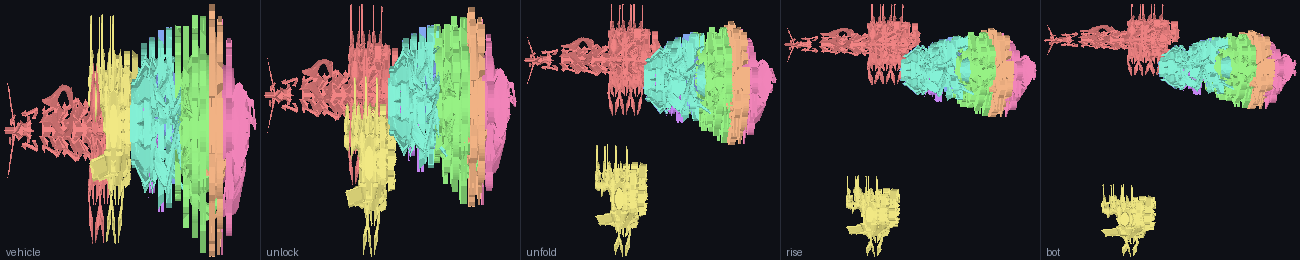
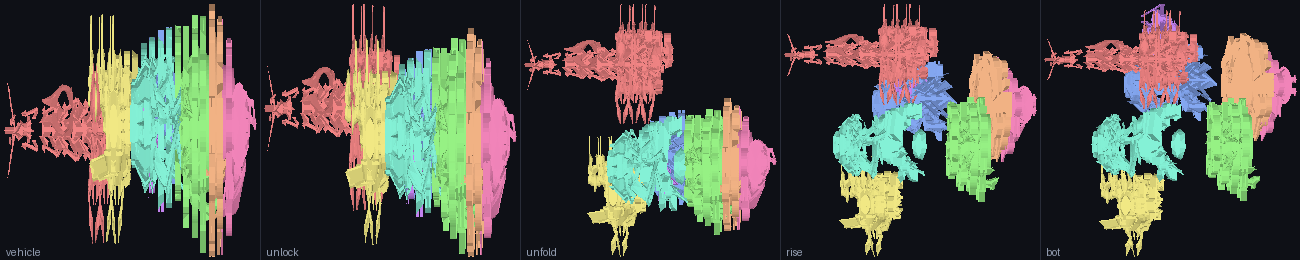
blackstar: make the transformation KINEMATIC — hinges, a parent chain, and bend-and-stop timing
The first version was wrong in a way worth naming precisely. Movie
transformations are not parts translating along axes in parallel; parts BEND AND
STOP, rotating about the seam where they meet a neighbour, carried by whatever
they are attached to. Three changes, each fixing one half of why the sheets read
as an explosion diagram rather than a mechanism:

HIERARCHY. Regions are now parented outward from the torso, nearest-first, and a
part's transform is resolved by walking UP the chain. A rotation at the hip
carries the whole leg. Without this every region moved independently, which is
the single biggest reason it looked like parts drifting apart.

HINGES, NOT SPINS. A region used to rotate about its own centroid, which makes a
panel spin in place. It now rotates about the contact point with its parent -
approximated as the point on its bounding box nearest the parent's centre - so it
SWINGS, which is what a hinged panel does.

SEQUENCING. Each part gets a movement window from its depth in the chain: the
torso rises first, limbs unfold next, extremities settle last, and outside its
window a part is clamped. That clamping IS the "stop" in bend-and-stop. Moving
everything simultaneously was the other half of the problem.

Sheets now cover the three requested subjects: optimus (116 components -> 8
regions), scorponok (1,009 -> 8, kept as the judgement case since he has no
established bot form), and BRAWL - who matters most, because he has both a tank
[…]

diff --git a/games/blackstar/game-model-tools/python/transform_collage.py b/games/blackstar/game-model-tools/python/transform_collage.py
@@ -152,6 +152,56 @@ def assign_slots(regions, lo, hi):
         r["axes"] = (length_axis, side_axis, up_axis)
     return regions
 
+
+# ------------------------------------------------------- kinematic hierarchy
+def build_hierarchy(regions):
+    """Parent each region to the nearest region closer to the torso.
+
+    This is the thing the first version lacked. Movie transformations are
+    KINEMATIC: a rotation at the hip carries the whole leg, so parts sweep
+    around each other instead of drifting apart in parallel. Without a
+    hierarchy every region translates independently and the result reads as an
+    explosion diagram, which is exactly what it looked like."""
+    root = min(range(len(regions)), key=lambda i: 0 if regions[i]["slot"] == "torso" else 1)
+    order = sorted(range(len(regions)), key=lambda i: -regions[i]["n"])
+    parent = {root: -1}
+    placed = [root]
+    for i in order:
+        if i in parent: continue
+        # nearest already-placed region becomes the parent, so the chain grows
+        # outward from the torso the way a body does
+        best = min(placed, key=lambda j: sum((regions[i]["c"][a]-regions[j]["c"][a])**2 for a in range(3)))
+        parent[i] = best
+        placed.append(i)
+    depth = {}
+    def d(i):
+        if i in depth: return depth[i]
+        depth[i] = 0 if parent[i] < 0 else d(parent[i]) + 1
+        return depth[i]
+    for i in range(len(regions)): d(i)
+    return parent, depth, root
+
+def hinge_point(child, par):
+    """The seam where a part meets its parent — the point it swings about.
+
+    Rotating a region about its own CENTROID makes it spin in place; rotating
+    about the contact with its parent makes it swing, which is what a hinged
+    panel actually does. The contact is approximated as the point on the child's
+    bounding box closest to the parent's centre."""
+    return [min(max(par["c"][a], child["lo"][a]), child["hi"][a]) for a in range(3)]
+
+def stage_window(depth_i, max_depth, stages):
+    """When this part moves, as a (start, end) fraction of the whole sequence.
+
+    Parts BEND AND STOP: the torso rises first, then limbs unfold, then
+    extremities settle. Moving everything at once is the other half of why the
+    first version looked wrong — real transformations are sequenced, and the
+    pauses are what make them read as mechanical."""
+    if max_depth <= 0: return 0.0, 1.0
+    f = depth_i / max_depth
+    start = 0.55 * f
+    return start, min(1.0, start + 0.55)
+
 # ---------------------------------------------------------------- transform
 # Proportions measured from engine_src/data/dude.iqm, the corpus's only rigged
 # model (20 joints, a standard biped). Using a real rig's ratios rather than
@@ -211,11 +261,15 @@ def bot_pose(r, lo, hi):
         t[ua] += torso * 0.18
     return t, ang, ua
 
-def stage_transform(r, lo, hi, s, n_stages):
-    """Stage s of n: interpolate the rigid pose. Ease-in-out, because a linear
-    blend reads as a slideshow rather than a mechanism."""
+def stage_transform(r, lo, hi, s, n_stages, window=(0.0, 1.0)):
+    """Stage s of n, respecting this part's own movement window.
+
+    Ease-in-out within the window, because a linear blend reads as a slideshow;
+    clamped outside it, which is the "stop" half of bend-and-stop."""
     u = s / max(n_stages - 1, 1)
-    e = u * u * (3.0 - 2.0 * u)
+    a, b = window
+    local = 0.0 if u <= a else 1.0 if u >= b else (u - a) / max(b - a, 1e-6)
+    e = local * local * (3.0 - 2.0 * local)
     t, ang, ua = bot_pose(r, lo, hi)
     return [x * e for x in t], ang * e, ua
 
@@ -234,10 +288,27 @@ def apply(p, c, t, ang, ua):
 def render(verts, tris, regions, lo, hi, stage, n_stages, W, H, axes):
     la, sa, ua = axes
     posed, colour = [None]*len(verts), [0]*len(verts)
+    parent, depth, root = build_hierarchy(regions)
+    maxd = max(depth.values()) if depth else 0
+    # resolve each region's transform by walking UP the chain, so a rotation at
+    # the hip carries the leg — the whole point of having a hierarchy
+    def place(i, p):
+        chain = []
+        j = i
+        while j >= 0:
+            chain.append(j)
+            j = parent[j]
+        q = list(p)
+        for j in chain:                     # child first, then each ancestor
+            r = regions[j]
+            t, ang, u = stage_transform(r, lo, hi, stage, n_stages,
+                                        stage_window(depth[j], maxd, n_stages))
+            piv = r["c"] if parent[j] < 0 else hinge_point(r, regions[parent[j]])
+            q = apply(q, piv, t, ang, u)
+        return q
     for ri, r in enumerate(regions):
-        t, ang, u = stage_transform(r, lo, hi, stage, n_stages)
         for i in r["idx"]:
-            posed[i] = apply(verts[i], r["c"], t, ang, u)
+            posed[i] = place(ri, verts[i])
             colour[i] = ri
     pts = [p for p in posed if p]
     if not pts: return None
